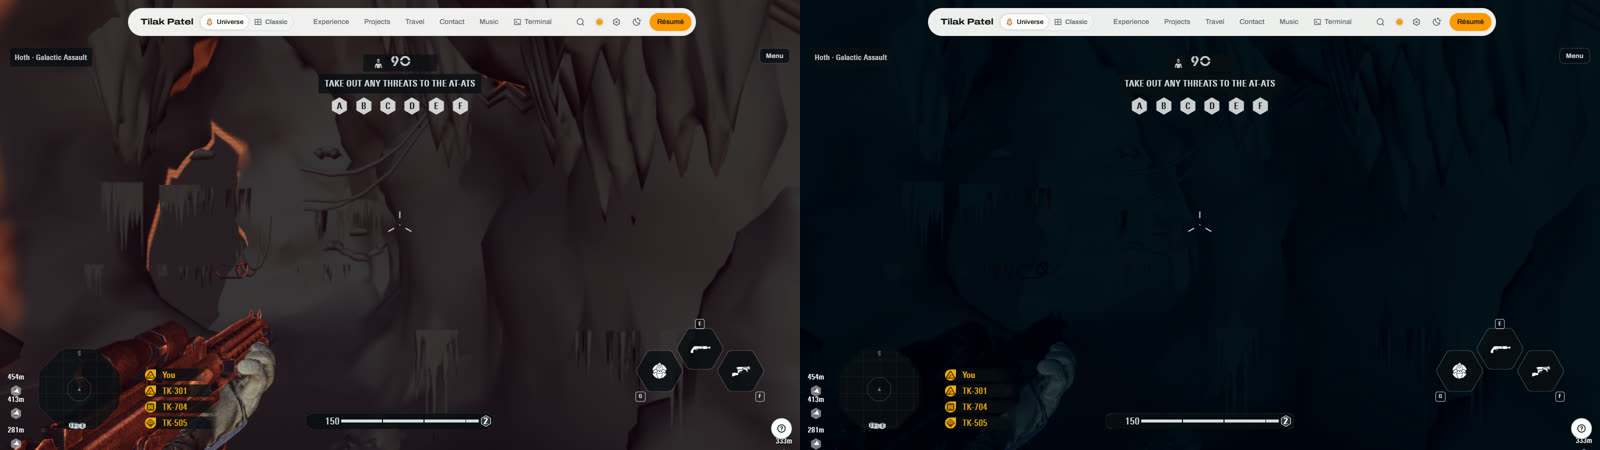
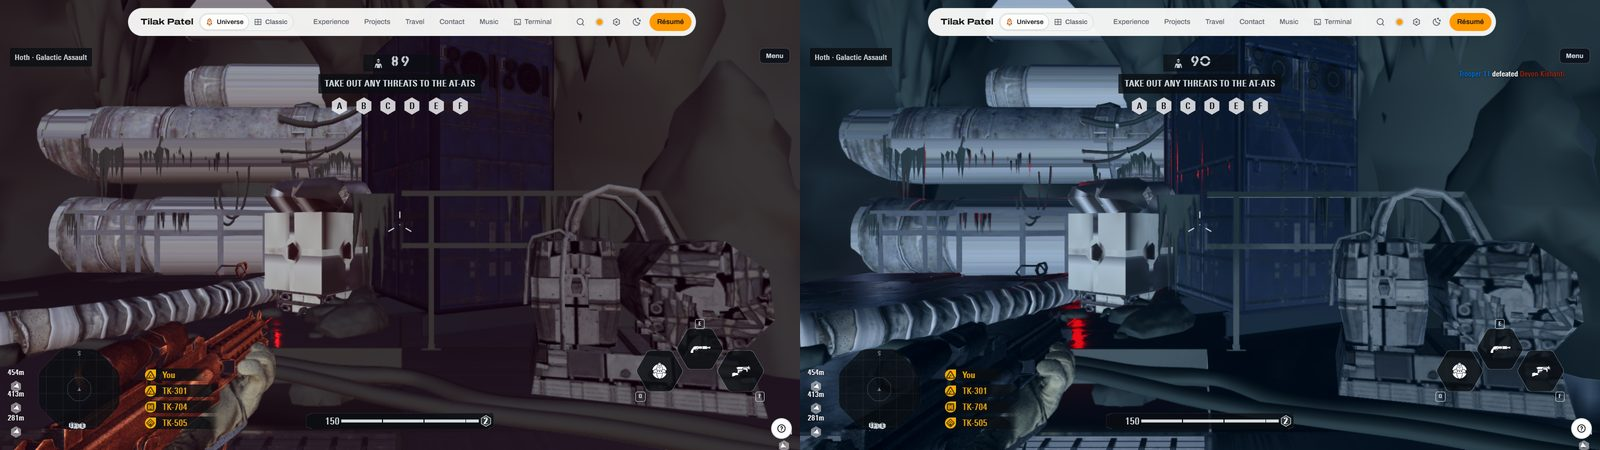
Shots: Echo Base's rooms at sunset, main beside the lane (this machine, high); NOTES names findings 65

diff --git a/src/data/bf2017/NOTES.md b/src/data/bf2017/NOTES.md
@@ -313,7 +313,7 @@ Read 2026-10-13 (the design: `docs/superpowers/specs/2026-10-13-bf2017-ui-canvas
 
 ## Echo Base's light (`maps/hoth.lighting.json`'s `areas` and `patches`; `lib/three/light/inside.js`, `apply.js`, `probes.js`; `battlefront/baseLight.js`, `weather.js`)
 
-Read 2026-10-14 (bf2-re findings 60 and 63). From the records and the live image: the interiors' VEs and the boxes they measure from (the `Lighting` layer's AreaProximityEntityData: `Out` → the VE reference's `Visibility`, `Areas` → Default_Lighting's nine OBBData), each VE as its PropertyOverrides fields only, the visibility as the live image computes it (`1 − d / ProximityDistance`, FUN_140b75090); which areas follow the player (the camera manager's transform by player, PTR_PTR_143ef81f8's slot 0x18 = FUN_140a7bfe0, matches a camera's player id exactly and gives the identity when FUN_1465bbea0 finds none: only `LocalPlayerId_0`'s areas follow the site's one player; the split screen's `_1` copies and the two ice caves' areas, `LocalPlayerId_Invalid` = 255, are left out, the caves' measuring from the world's origin in the game); every lamp's `Enabled`, `AffectDiffuse`/`AffectSpecular`; the lamps' strength, `Color × Intensity / 4π` candela a channel (`LightRenderDB.cpp::convertToLightInfo`: FUN_146f63040's `colour × Φ / (area · π)`, FUN_146f63430's area 4 for a punctual light, a spot's cone masking it), the colour as the record holds it (read so, the lamps' direct light over each enclosed reflection volume is a share of the game's own capture of the room, 7 to 58 nits against 90 to 370; read as a tint it was 2 to 23 times less, `weather.test.js`); the 414 lamp prefabs by their whole transform (413 in Default_Lighting, one in Hangar_01_Props_04); the reflection volumes' cubes in the game's nits; the folded record's MinEV/MaxEV/ExposureCompensation and Dark/LightAdaptationTime. **By hand**, each until the code that decides it is read:
+Read 2026-10-14 (bf2-re findings 60 and 65). From the records and the live image: the interiors' VEs and the boxes they measure from (the `Lighting` layer's AreaProximityEntityData: `Out` → the VE reference's `Visibility`, `Areas` → Default_Lighting's nine OBBData), each VE as its PropertyOverrides fields only, the visibility as the live image computes it (`1 − d / ProximityDistance`, FUN_140b75090); which areas follow the player (the camera manager's transform by player, PTR_PTR_143ef81f8's slot 0x18 = FUN_140a7bfe0, matches a camera's player id exactly and gives the identity when FUN_1465bbea0 finds none: only `LocalPlayerId_0`'s areas follow the site's one player; the split screen's `_1` copies and the two ice caves' areas, `LocalPlayerId_Invalid` = 255, are left out, the caves' measuring from the world's origin in the game); every lamp's `Enabled`, `AffectDiffuse`/`AffectSpecular`; the lamps' strength, `Color × Intensity / 4π` candela a channel (`LightRenderDB.cpp::convertToLightInfo`: FUN_146f63040's `colour × Φ / (area · π)`, FUN_146f63430's area 4 for a punctual light, a spot's cone masking it), the colour as the record holds it (read so, the lamps' direct light over each enclosed reflection volume is a share of the game's own capture of the room, 7 to 58 nits against 90 to 370; read as a tint it was 2 to 23 times less, `weather.test.js`); the 414 lamp prefabs by their whole transform (413 in Default_Lighting, one in Hangar_01_Props_04); the reflection volumes' cubes in the game's nits; the folded record's MinEV/MaxEV/ExposureCompensation and Dark/LightAdaptationTime. **By hand**, each until the code that decides it is read:
 
 - **The fold's order**: the interiors' references are at priority 0 and the weather's at 7,500 to 8,000; they are folded on top (the lower number last). The VE manager's sort is not decompiled. For it: the interior VE and `VE_No_Sun` set fields the weather sets too (MinEV, MaxEV, ExposureCompensation, the LUT, SunIntensity, SunColor, CloudShadowEnable), and every Galactic Assault level places its interior VEs at 0, so with the higher number on top none of them would do anything. Against it: findings 22 §2's +10,000,000 for a VE no reference places (an effect's), which reads as floating above.
 - **A field that does not lerp** (a switch, a texture name) takes the patch's value from half visibility; **a value its patch switches off** is not folded at all (the interior's `FogColor` beside its `FogColorEnable false`, its `ForwardLightScattering…` beside `ForwardLightScatteringEnabled false`).
